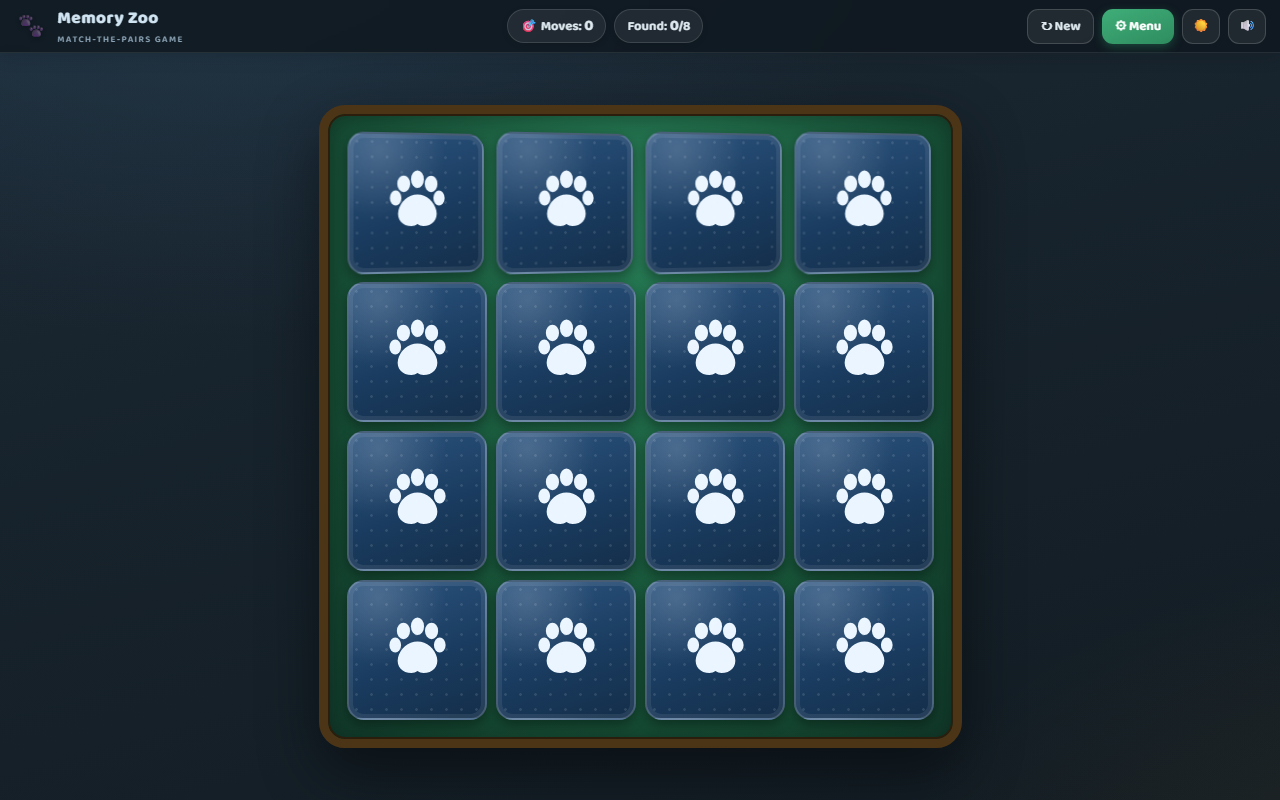
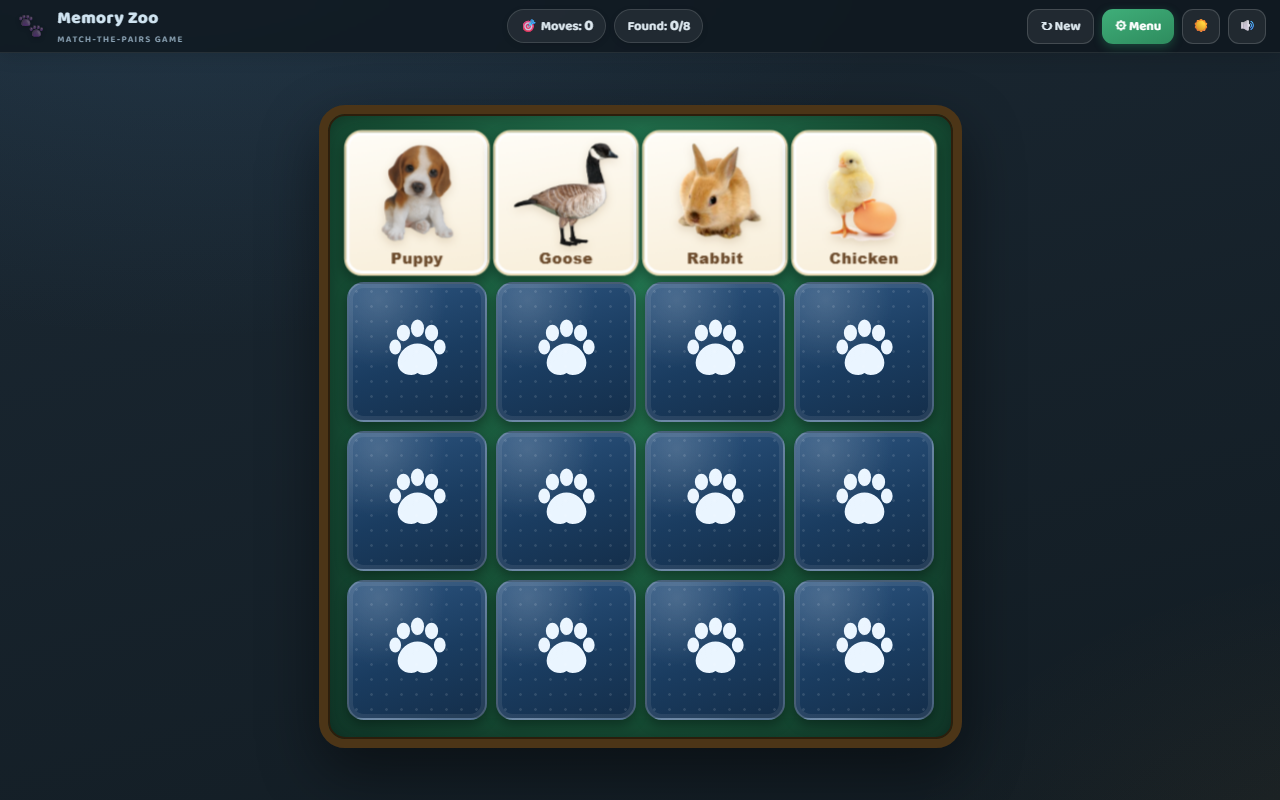
Fix ?qa=faces screenshots: flip cards synchronously with no transition on first frame

Changed region(s): [[0.25, 0.1562, 0.75, 0.3438]]

diff --git a/game.js b/game.js
@@ -656,19 +656,18 @@ S = sanitizeSettings(S);
 applyTheme();
 startGame();
 
-// visual QA hook: index.html?qa=faces flips some cards, ?qa=menu opens the menu,
+// visual QA hook: index.html?qa=faces shows some cards face-up, ?qa=menu opens the menu,
 // ?qa=light forces the light theme for screenshots
 try {
   const qa = new URLSearchParams(location.search).get('qa');
-  if (qa) {
-    if (qa === 'light') document.documentElement.dataset.theme = 'light';
-    setTimeout(() => {
-      if (qa === 'menu') { syncMenu(); menuEl.classList.remove('hidden'); }
-      else if (qa === 'faces' && G) {
-        G.cells.slice(0, 4).forEach((c) => c.el.classList.add('up'));
-      }
-    }, 700);
+  if (qa === 'light') document.documentElement.dataset.theme = 'light';
+  if (qa === 'faces' && G) {
+    // flip synchronously with no animation: the very first painted frame
+    // is already static and face-up (flipping after a timer races screenshots)
+    document.documentElement.classList.add('qa-static');
+    G.cells.slice(0, 4).forEach((c) => c.el.classList.add('up'));
   }
+  if (qa === 'menu') { setTimeout(() => { syncMenu(); menuEl.classList.remove('hidden'); }, 700); }
 } catch (e) {}
 
 })();

diff --git a/style.css b/style.css
@@ -488,6 +488,9 @@ input[type=range]::-moz-range-thumb{
 .scorecards .sc b{ display: block; font-size: 32px; }
 .scorecards .sc span{ font-size: 12.5px; font-weight: 700; color: var(--ink-dim); }
 
+/* deterministic first frame for screenshots (?qa=faces) */
+html.qa-static .card{ transition: none !important; }
+
 /* ---------------- small screens ---------------- */
 @media (max-width: 760px){
   .brand p{ display: none; }
